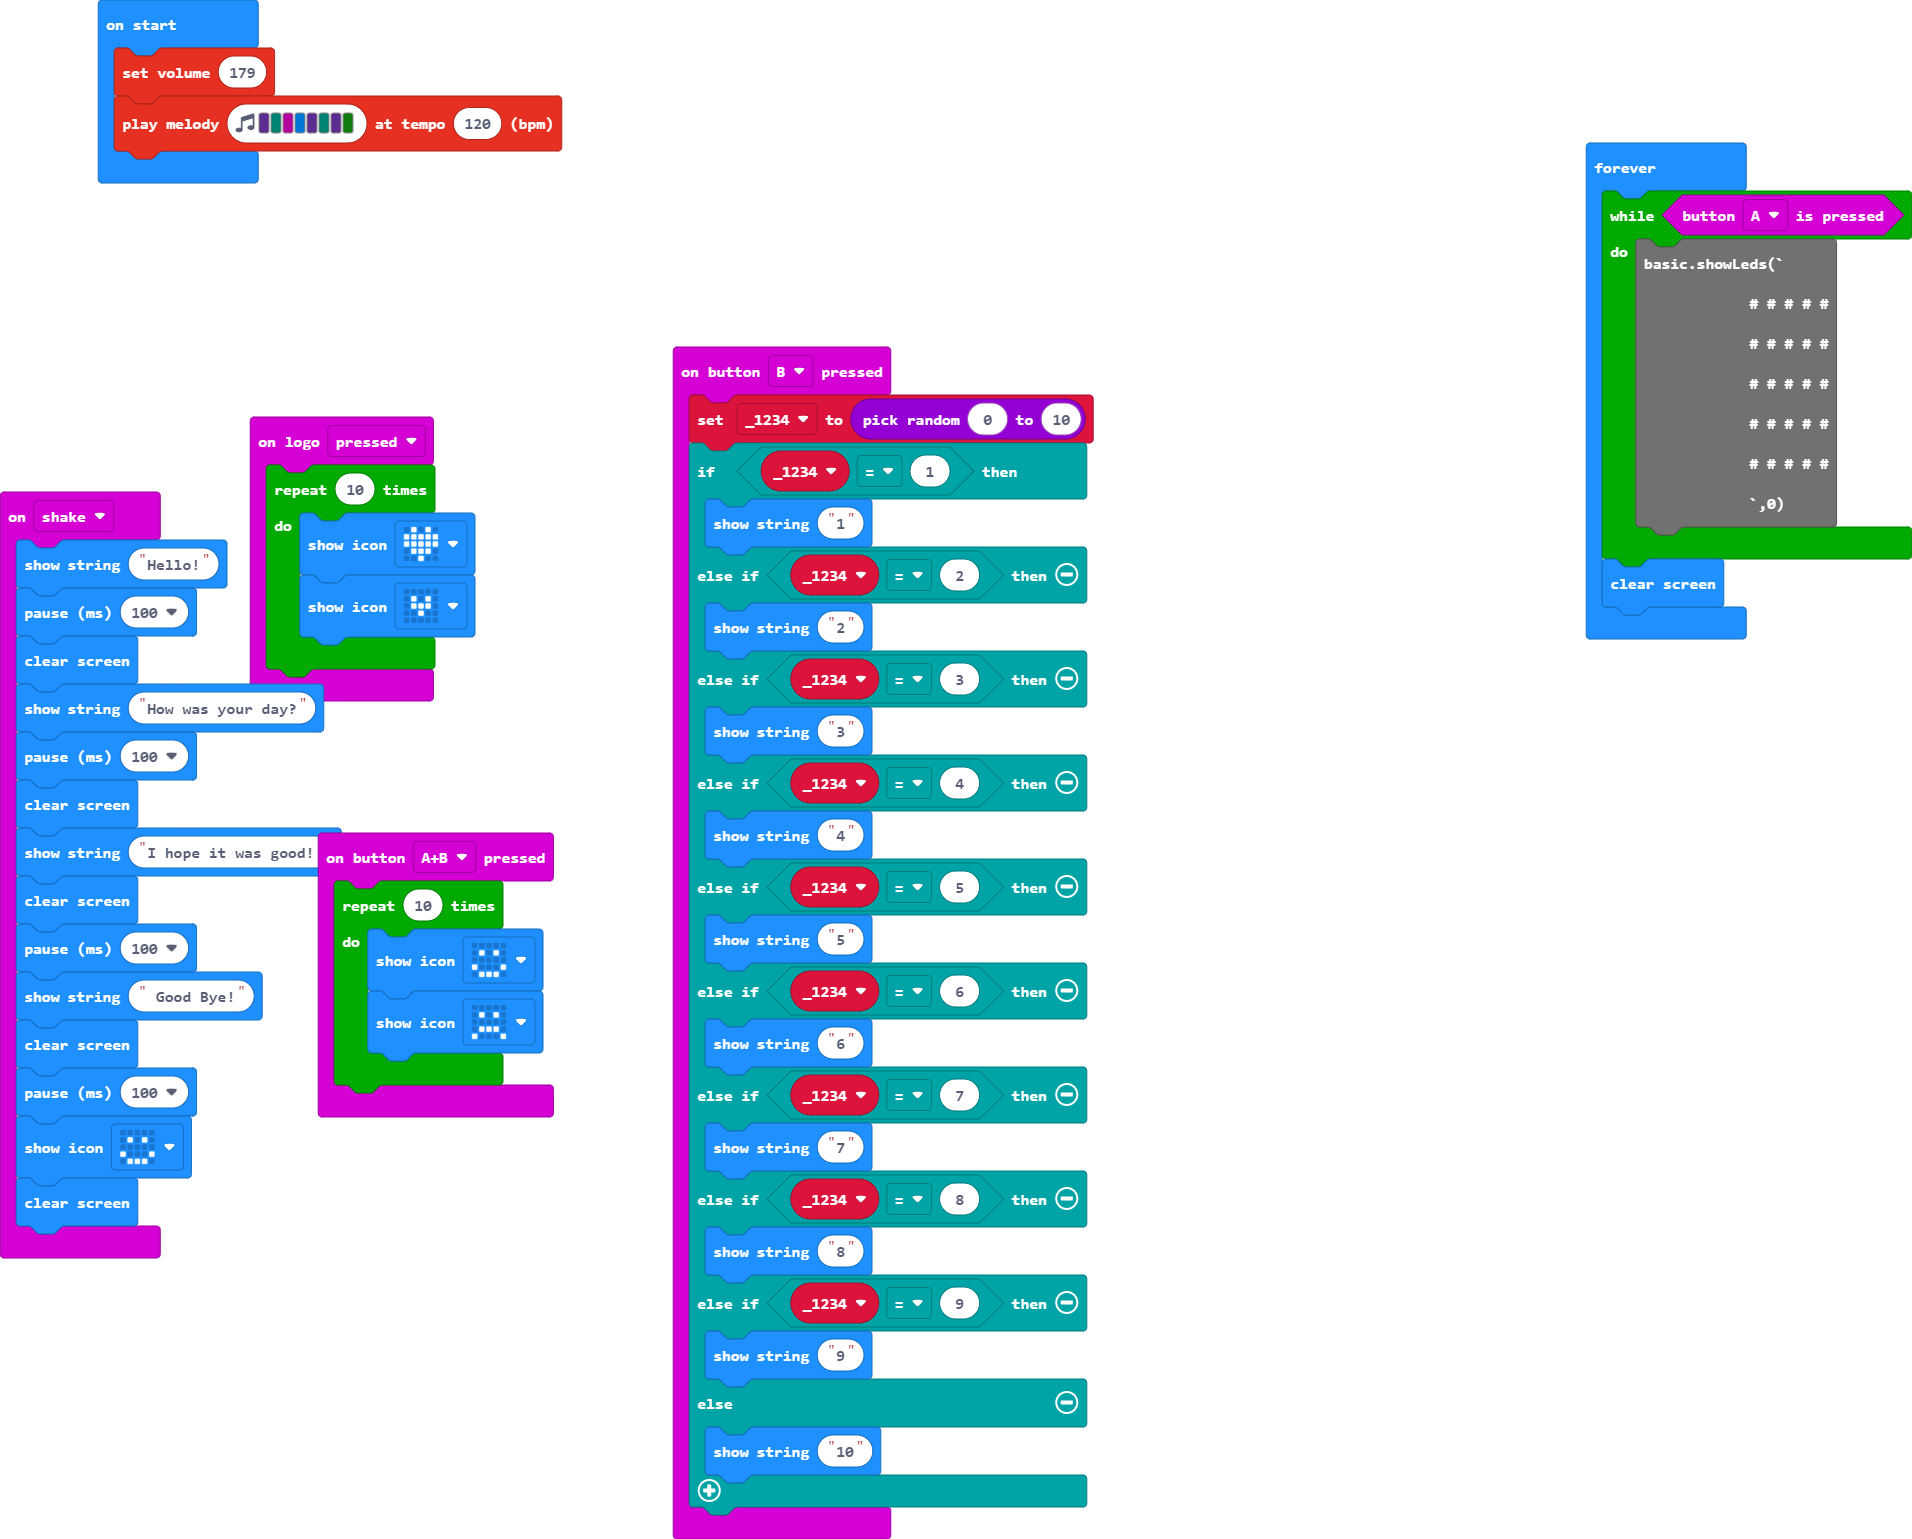
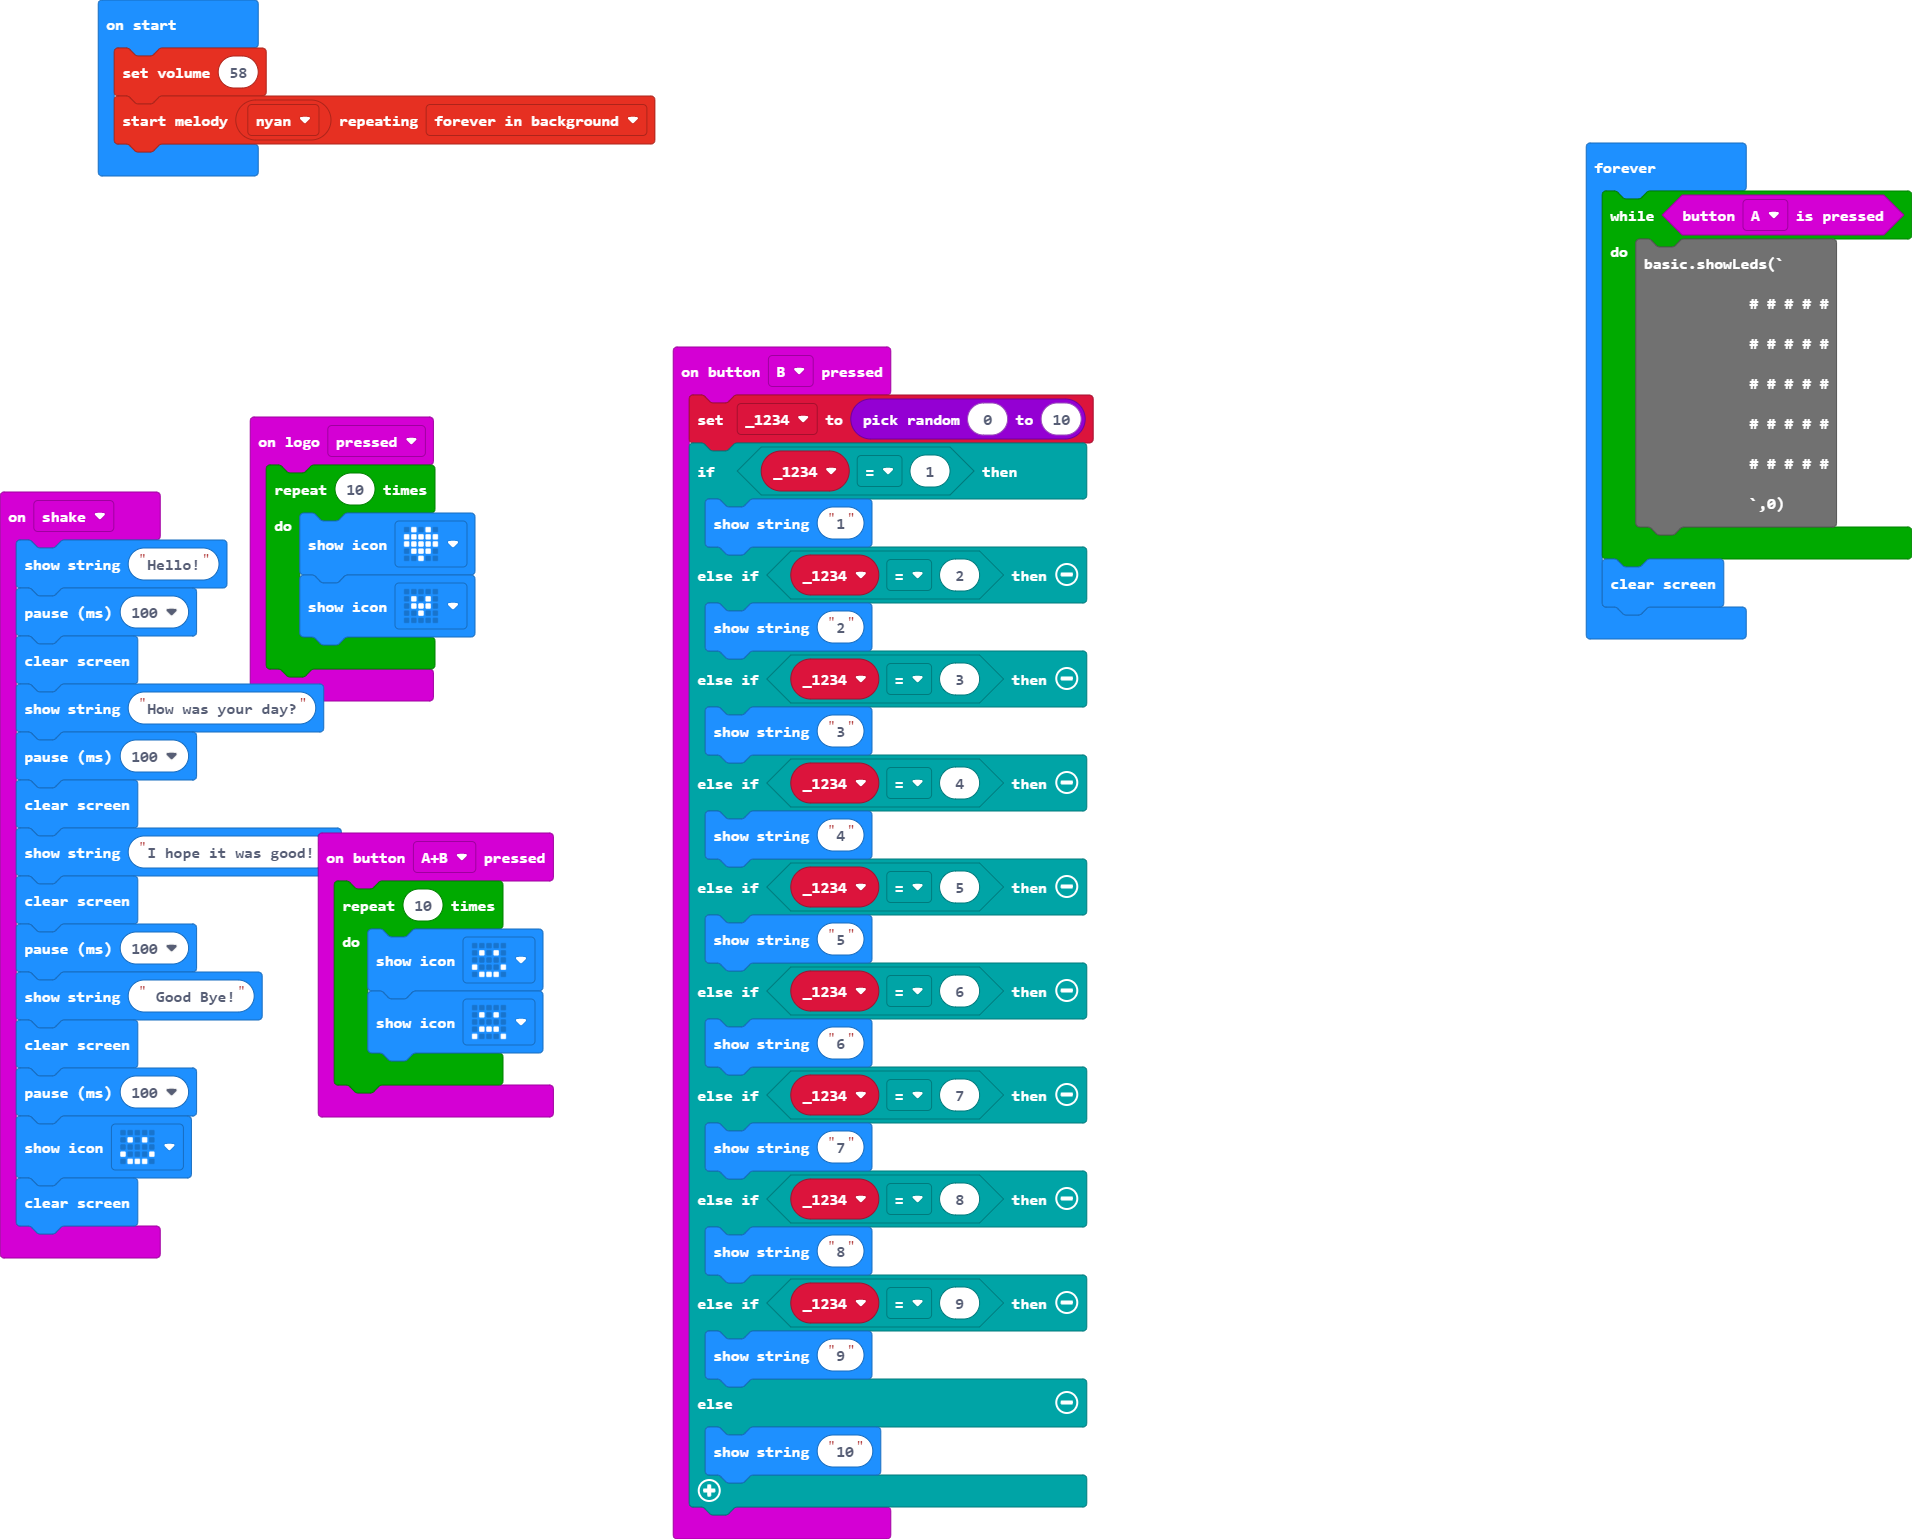
Update main.blocks, main.ts

Changed region(s): [[0.0617, 0.0312, 0.3703, 0.1248]]

diff --git a/main.ts b/main.ts
@@ -51,8 +51,8 @@ input.onLogoEvent(TouchButtonEvent.Pressed, function () {
     }
 })
 let _1234 = 0
-music.setVolume(179)
-music.playMelody("D F C E D F D G ", 120)
+music.setVolume(58)
+music.startMelody(music.builtInMelody(Melodies.Nyan), MelodyOptions.ForeverInBackground)
 basic.forever(function () {
     while (input.buttonIsPressed(Button.A)) {
         basic.showLeds(`
